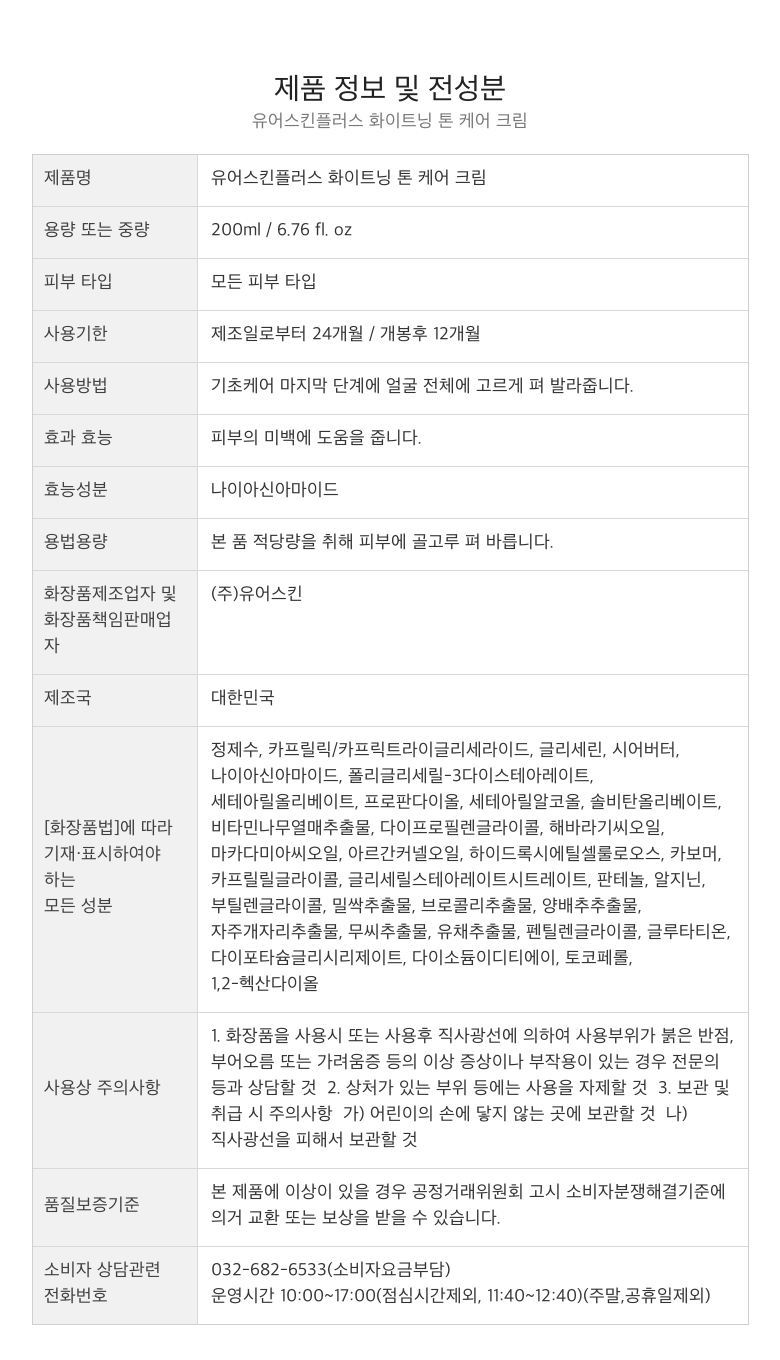
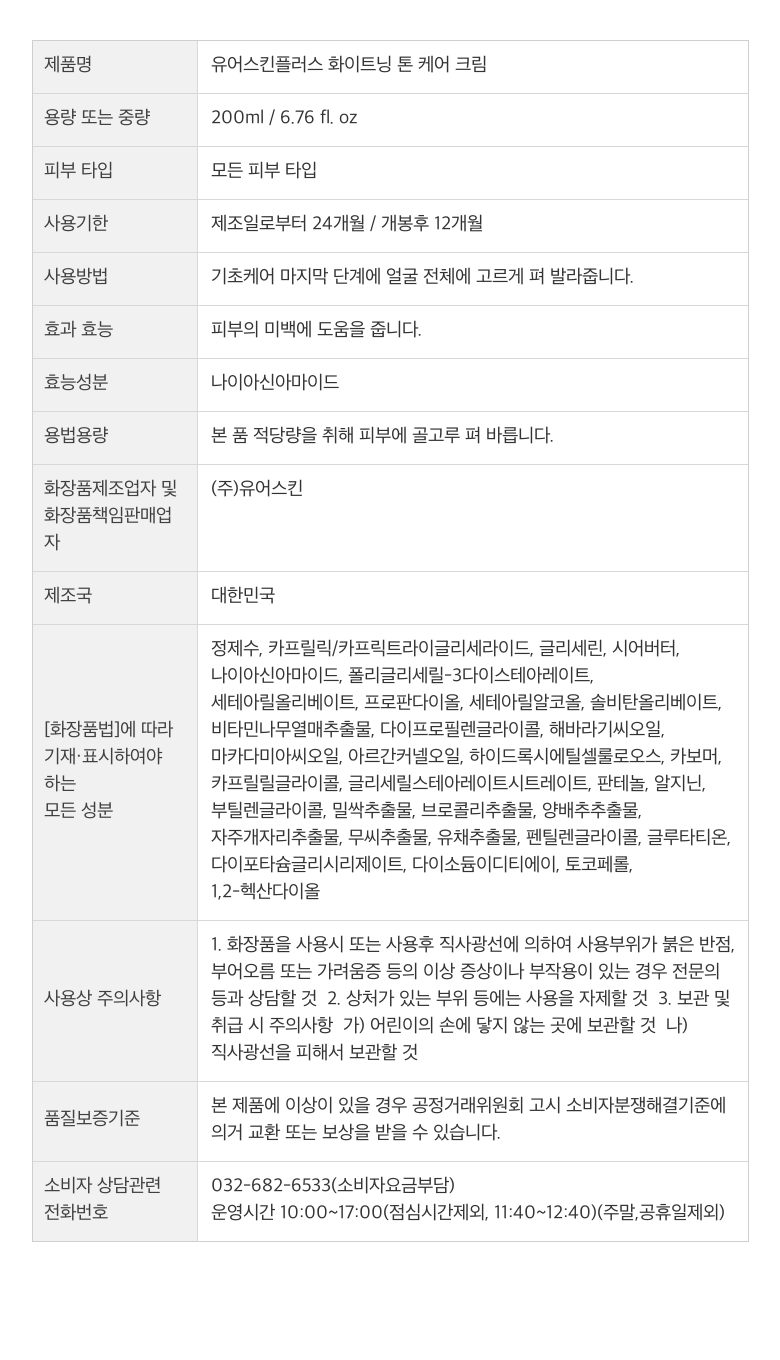
fix: remove whitening table title

diff --git a/scripts/render-whitening-ingredient-table.py b/scripts/render-whitening-ingredient-table.py
@@ -11,7 +11,7 @@ if OUT.exists():
 
 W, H = 780, 1360
 MARGIN_X = 32
-TOP = 72
+TOP = 40
 TABLE_W = W - MARGIN_X * 2
 LABEL_W = 165
 VALUE_W = TABLE_W - LABEL_W
@@ -96,8 +96,8 @@ def calculate(font_size):
         h = max(len(label_lines), len(value_lines)) * line_h + pad_y * 2
         h = max(h, 50)
         computed.append((label_lines, value_lines, h))
-    title_h = 52
-    total_h = TOP + title_h + sum(h for _, _, h in computed)
+    title_h = 0
+    total_h = TOP + sum(h for _, _, h in computed)
     return total_h, computed, font, label_font, title_font, line_h, pad_y
 
 font_size = 20
@@ -111,17 +111,8 @@ total_h, computed, font, label_font, title_font, line_h, pad_y = calculate(font_
 img = Image.new('RGB', (W, H), '#ffffff')
 d = ImageDraw.Draw(img)
 
-# subtle title
-title = '제품 정보 및 전성분'
-tw = text_w(d, title, title_font)
-d.text(((W - tw) / 2, TOP), title, fill='#222222', font=title_font)
-subtitle = '유어스킨플러스 화이트닝 톤 케어 크림'
-sub_font = load_font(18)
-sw = text_w(d, subtitle, sub_font)
-d.text(((W - sw) / 2, TOP + 38), subtitle, fill='#777777', font=sub_font)
-
 x0 = MARGIN_X
-y = TOP + 82
+y = TOP
 x1 = x0 + LABEL_W
 x2 = x0 + TABLE_W
 border = '#d8d8d8'
@@ -146,7 +137,7 @@ for idx, ((label, value), (label_lines, value_lines, row_h)) in enumerate(zip(ro
     y += row_h
 
 # outer border slightly darker
-d.rectangle([x0, TOP + 82, x2, y], outline='#cfcfcf', width=1)
+d.rectangle([x0, TOP, x2, y], outline='#cfcfcf', width=1)
 
 OUT.parent.mkdir(parents=True, exist_ok=True)
 img.save(OUT, 'PNG', optimize=True)
